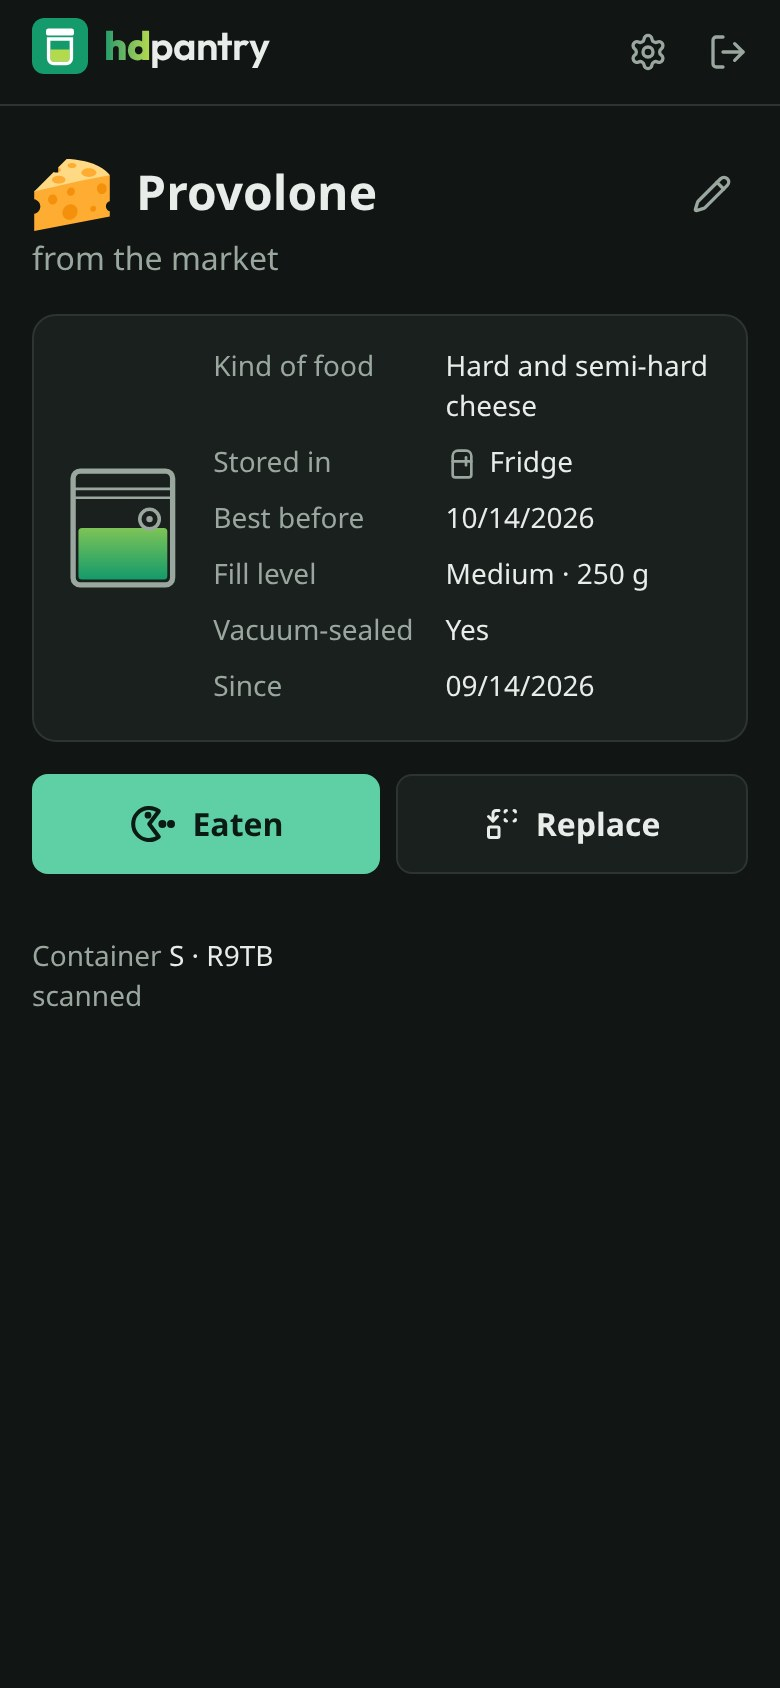
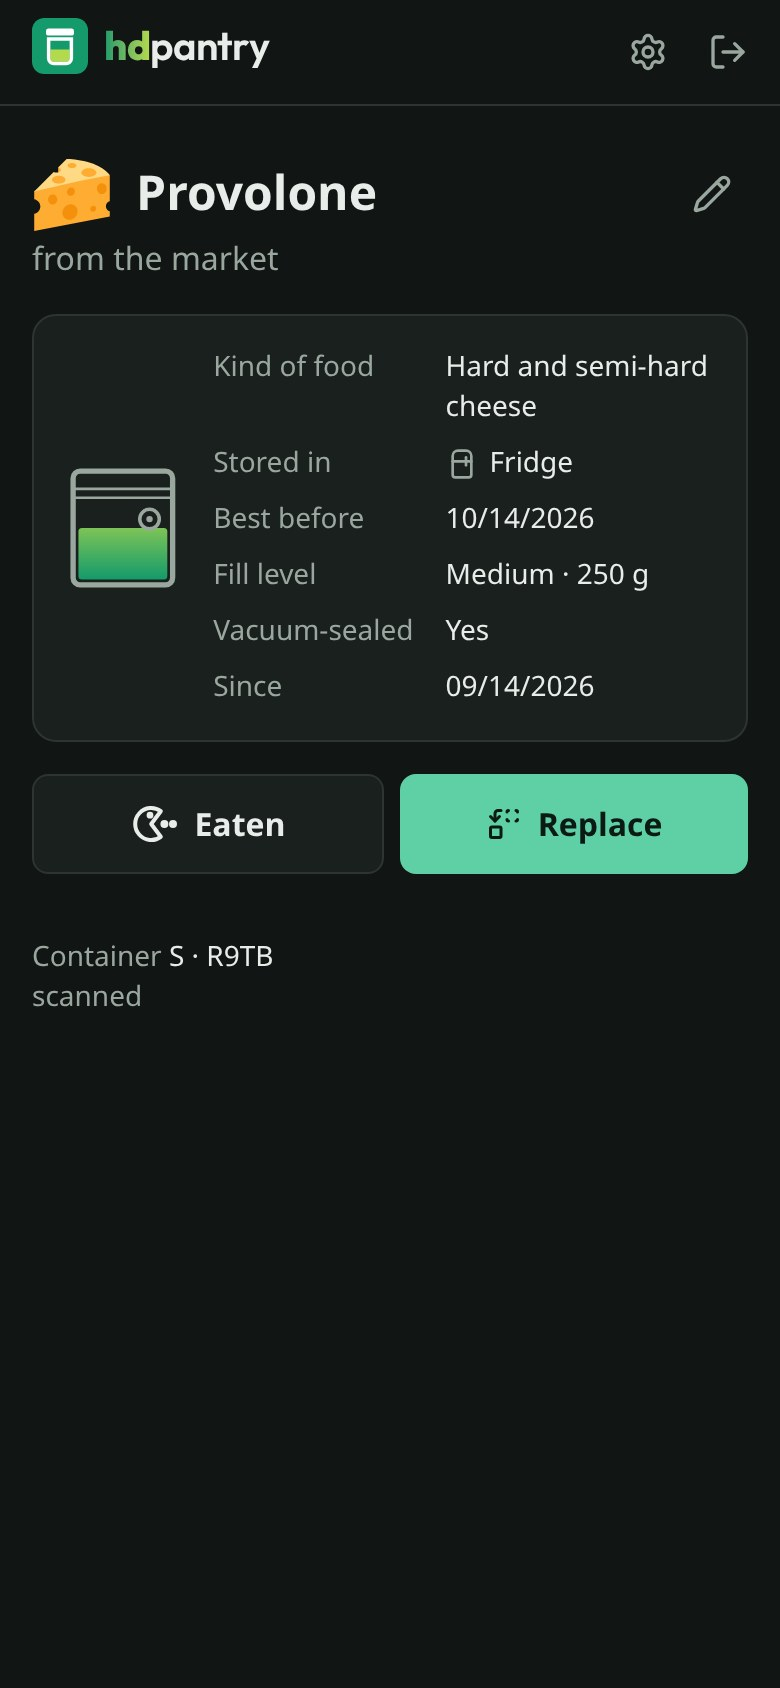
Detail page: Replace is the main button, Eaten the quiet one; prepare 0.1.0
Changelog section and version number for the first release are in place; the tag is not
set yet.

Changed region(s): [[0.0308, 0.4313, 0.9846, 0.5237]]

diff --git a/src/routes/containers/[id]/+page.svelte b/src/routes/containers/[id]/+page.svelte
@@ -78,7 +78,7 @@
 			<div class="mt-4 flex gap-2">
 				<button
 					type="button"
-					class="flex flex-1 items-center justify-center gap-2 btn-primary"
+					class="flex flex-1 items-center justify-center gap-2 btn-secondary"
 					onclick={() => (confirmEaten = true)}
 				>
 					<EatenIcon size={24} />
@@ -87,7 +87,7 @@
 				<!-- Eaten and filled again in one go -->
 				<a
 					href="/containers/{container.id}/add?replace=1"
-					class="flex flex-1 items-center justify-center gap-2 btn-secondary"
+					class="flex flex-1 items-center justify-center gap-2 btn-primary"
 				>
 					<Replace size={18} />
 					{m.item.replace}

diff --git a/CHANGELOG.md b/CHANGELOG.md
@@ -7,21 +7,22 @@ All notable changes to hdpantry. Each version is also published as a [GitHub rel
      "## X.Y.Z – date". Sections (leave out empty ones): ### ✨ New, ### 🔧 Improved, ### 🐛 Fixed,
      ### 🗑 Removed, and on release ### ⬆ Updating (what users have to do when updating). -->
 
-## Upcoming release
+## 0.1.0 – 2026-10-05
 
-The first version: scan a container, note what is inside, and see what should be eaten first.
+First release.
 
 ### ✨ New
 
-- **Scan:** hold the code of a container or bag in front of the camera and hdpantry leads on right away – a full container shows what is inside, an empty one asks for a name. A photo of the code or typing it works too, with any QR code
-- **Containers and bags:** every code is one container, added by itself the first time it is scanned. Mark the content as eaten or replace it in one go; a container remembers what was in it before and offers it again with one tap. Containers without a code can be recorded by hand and merged with their code later
-- **Quick entry:** one name, then an optional note, vacuum-sealed or not, where it is stored, best before, how full it is and, if you like, how much
-- **Shelf life:** the kind of food and a symbol are suggested from the name (German and English; your corrections are remembered), suitable places of storage are marked, and a best-before date is suggested – guide values with their sources under Settings → Guide values, never a guarantee
-- **In stock:** everything you have, what expires first at the top; expired and soon-to-expire items stand out. Filter by place of storage, sort by date, name or place; cards on phones, a table on computers
-- **Settings:** language (English, German), colour scheme (system, dark, light), symbols in two styles, vibration when scanning, when something counts as “expires soon”
-- **Account:** change username and password, log out all other devices
-- **Export and import:** the whole stock with its history as one readable file; importing replaces the stock after showing what will change
-- **Backups:** optional scheduled copies of the database that can be downloaded in the app
-- **Behind a reverse proxy:** Settings → Connection shows whether the connection is encrypted and lets you confirm the proxy, with one tap or with a key
-- **Install as an app** on the home screen of your phone or on your computer
-- **Private:** hdpantry runs on your own server and does not connect to any outside service; repeated wrong passwords block the address they come from
+- **Scan** – hold the code of a container or bag in front of the camera and hdpantry leads on right away: a full container shows what is inside, an empty one asks for a name. A photo of the code or typing it works too, with any QR code
+- **Containers and bags** – every code is one container, added by itself the first time it is scanned. Mark the content as eaten or replace it in one go; a container remembers what was in it before
+- **Quick entry** – one name, then an optional note, vacuum-sealed or not, where it is stored, best before, how full it is and how much
+- **Shelf life** – kind of food, symbol, suitable places of storage and a best-before date are suggested from the name; guide values with their sources, never a guarantee
+- **In stock** – what expires first at the top, expired and soon-to-expire items stand out; filter by place of storage, sort by date, name or place
+- **Export and import** – the whole stock with its history as one readable file
+- **Maintenance built in** – optional scheduled backups of the database, downloadable in the app
+- **Settings** – English and German, light and dark, symbols in two styles, account, reverse proxy; installable as an app on your home screen
+- **Private** – runs on your own server and does not connect to any outside service
+
+### ⬆ Updating
+
+This is the first version – nothing to update from. To install it, follow the [installation guide](https://github.com/dvnkln/hdpantry/wiki/Installation).
